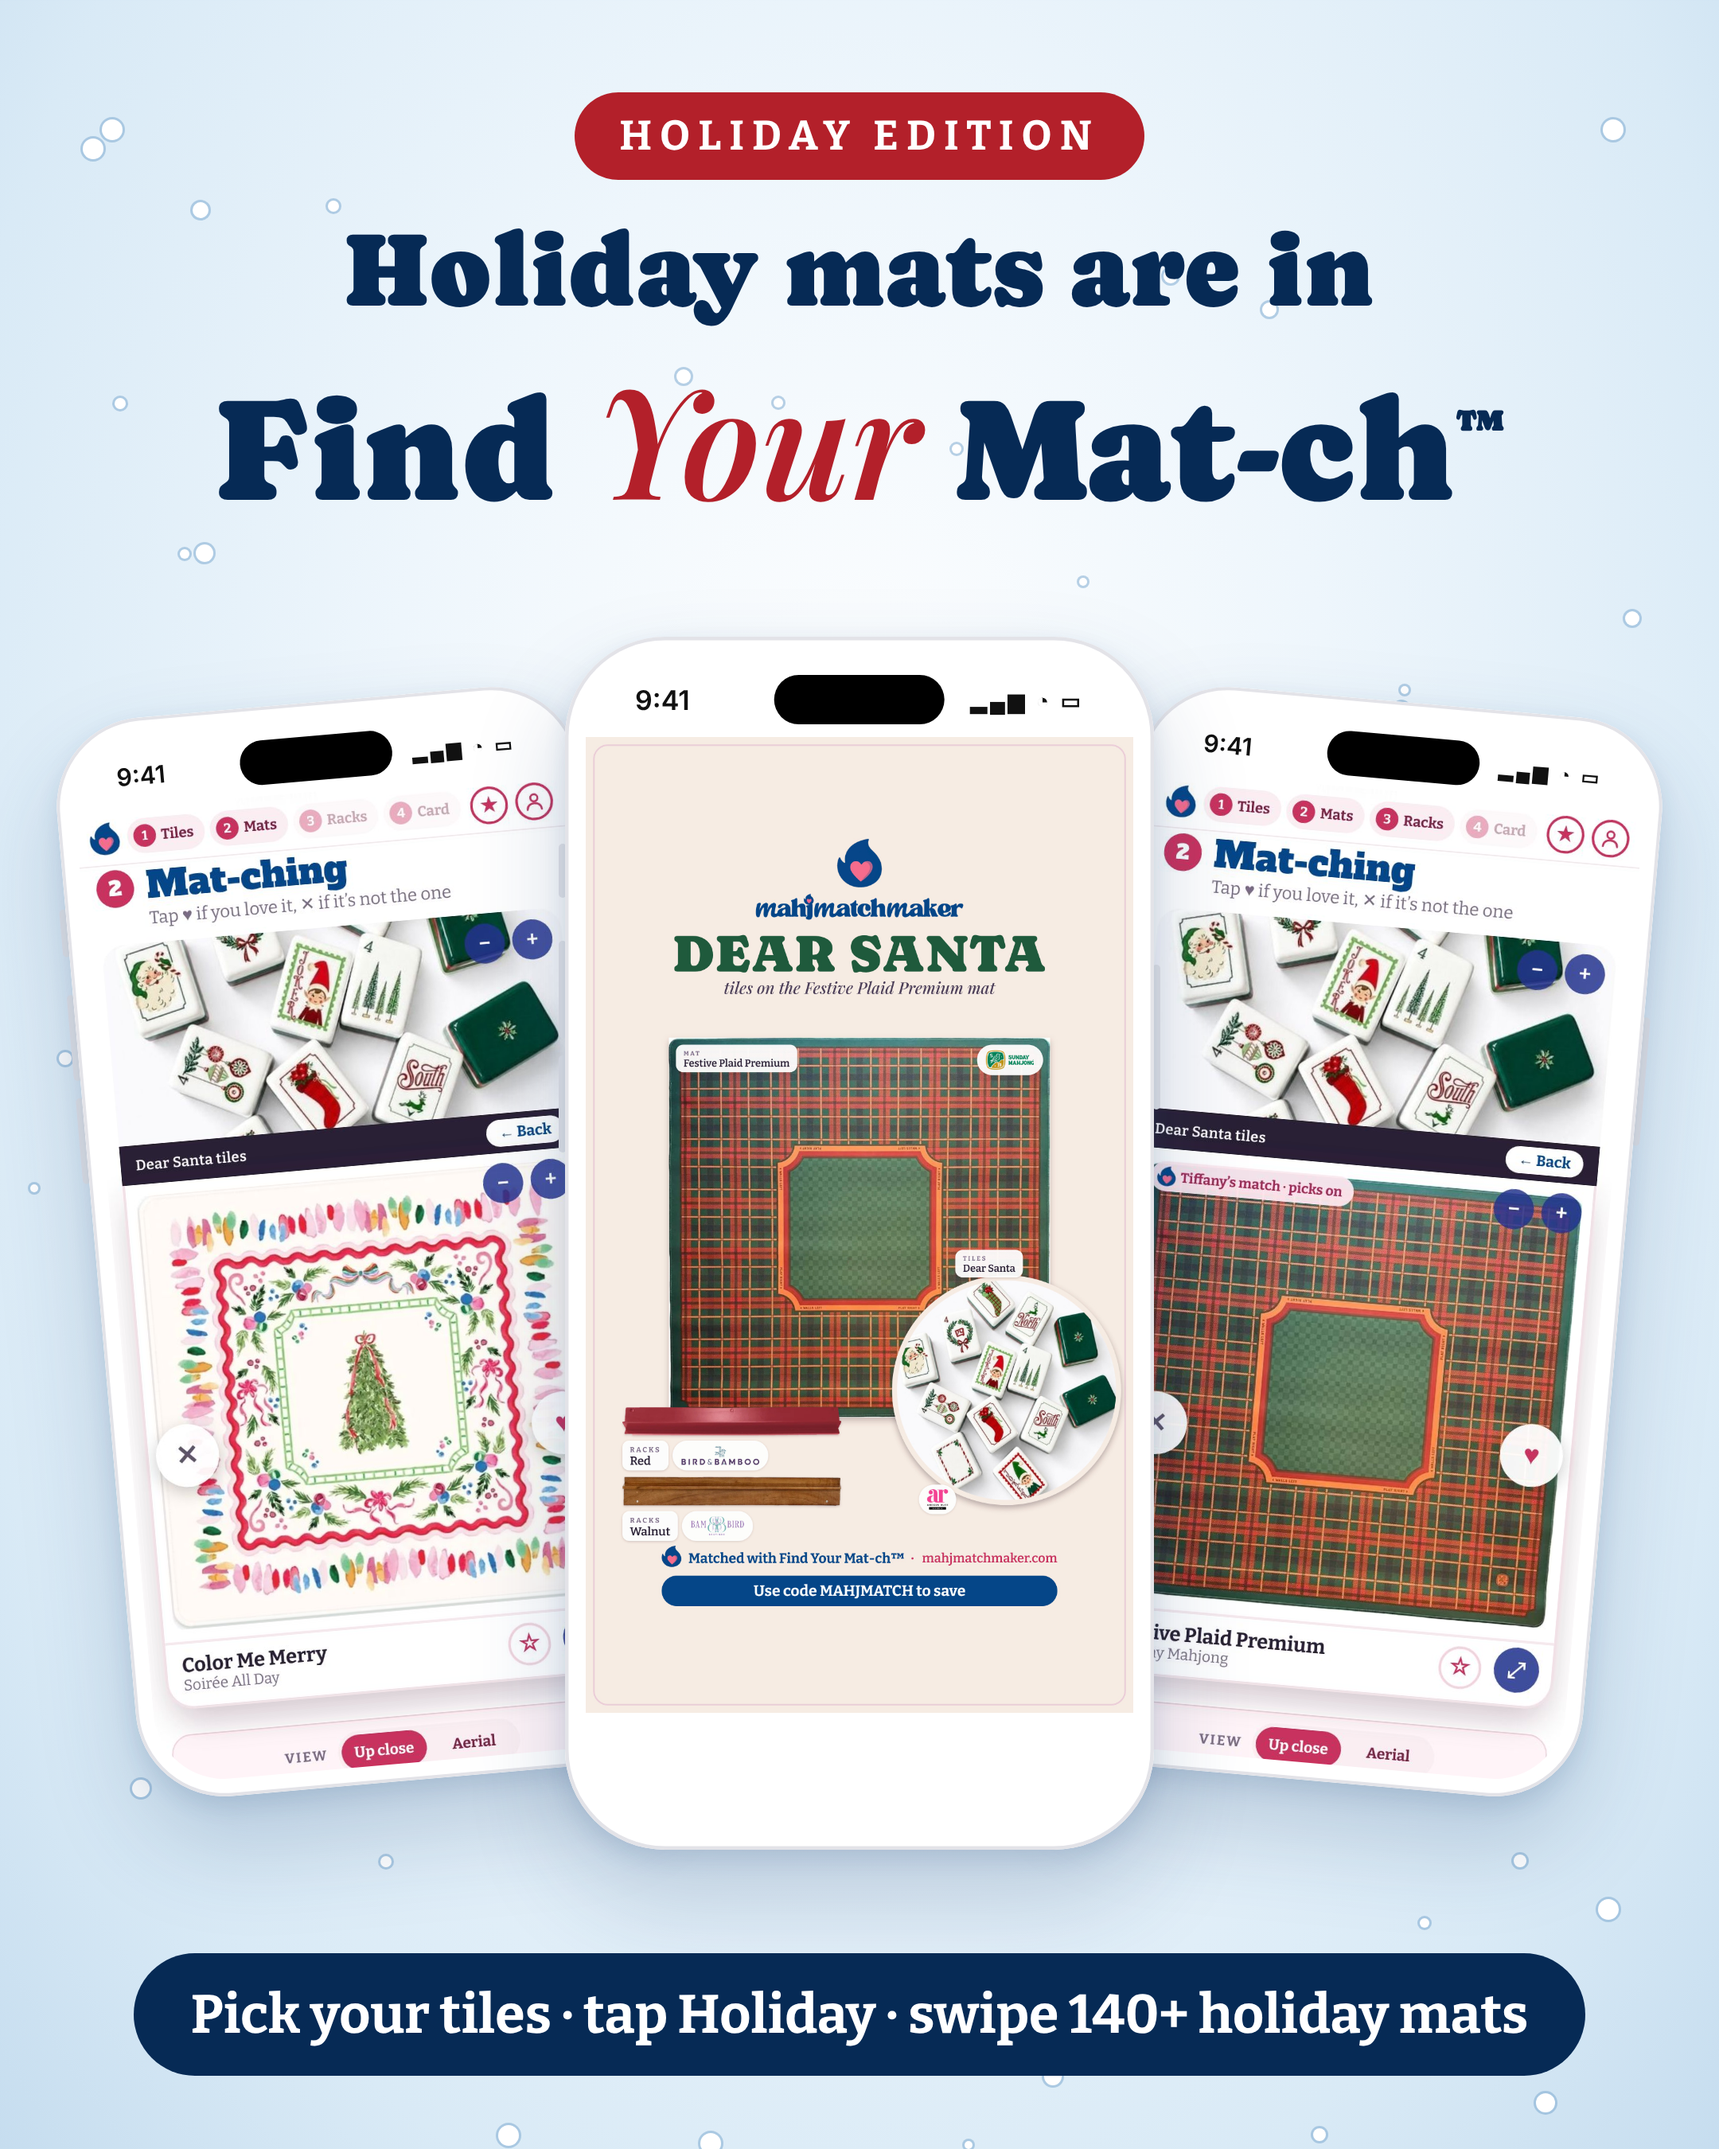
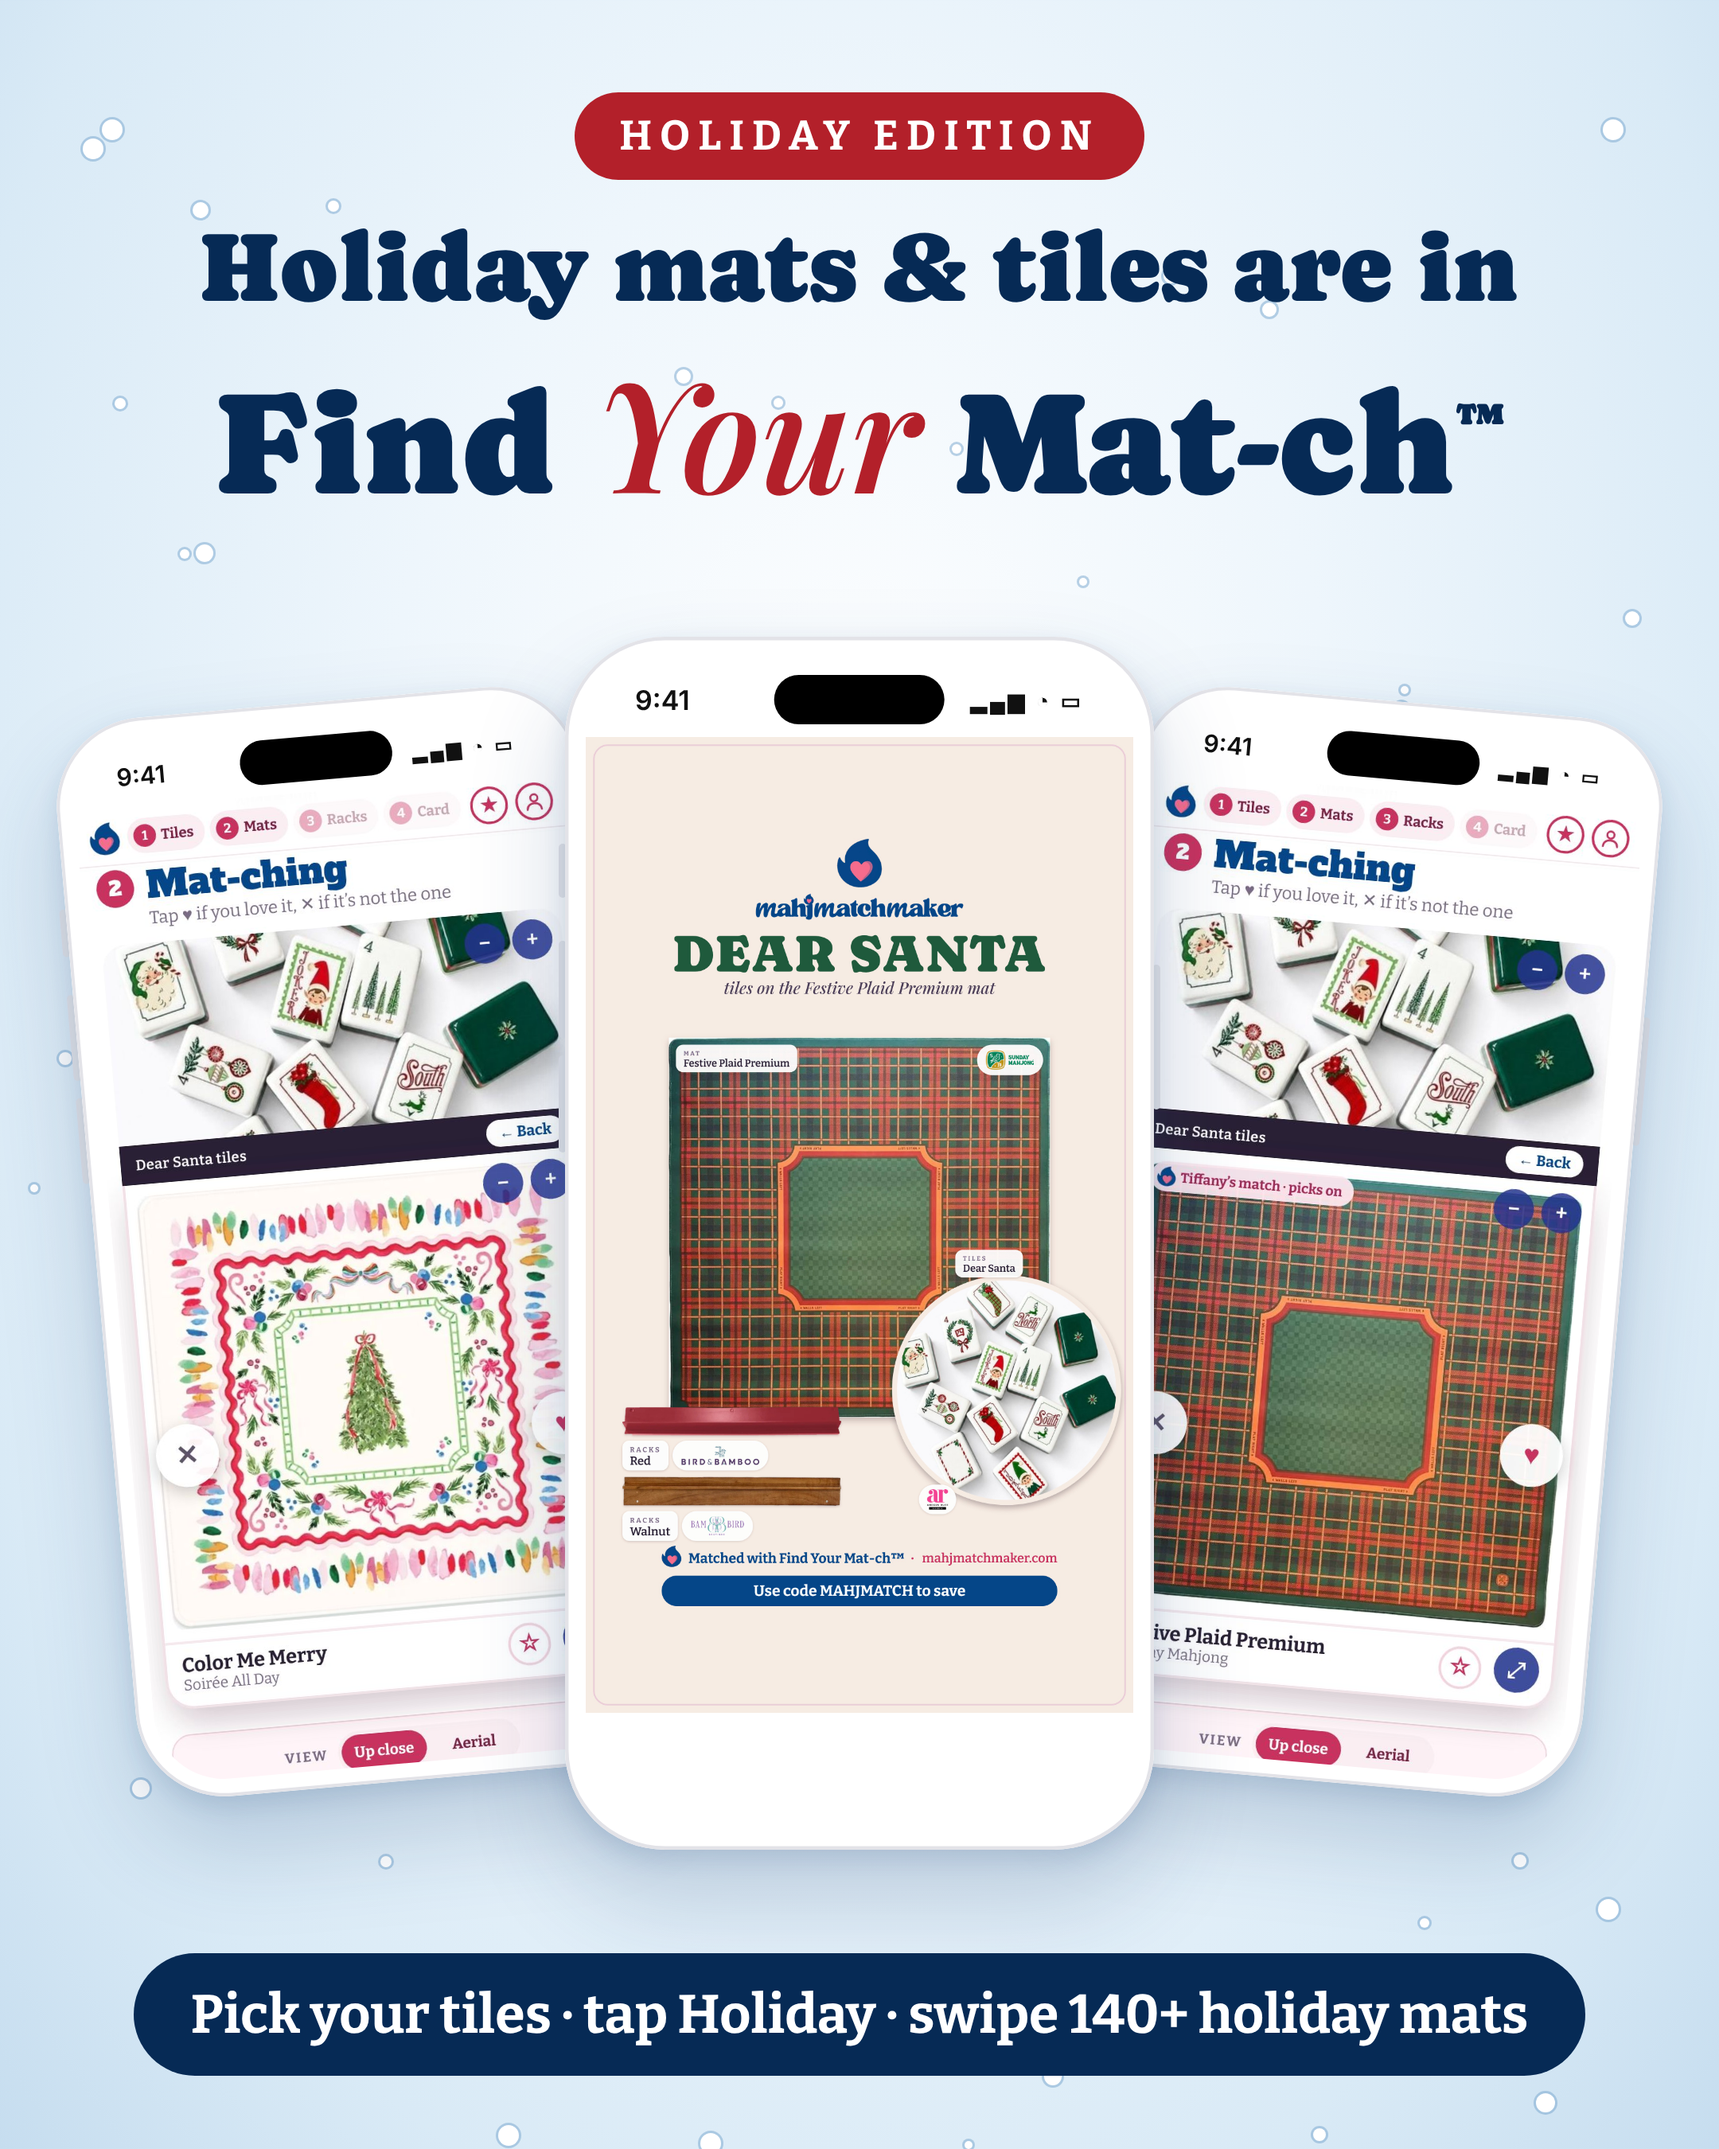
FYM holiday promo: mats & tiles
Claude-Session: https://claude.ai/code/session_01QxwYQtmWcAr4s5uYJYP3mA

diff --git a/docs/social/fym-holiday-group/make_promo.py b/docs/social/fym-holiday-group/make_promo.py
@@ -18,7 +18,7 @@ import random; random.seed(4)
 snow=''.join(f'<i style="position:absolute;left:{random.randint(0,1080)}px;top:{random.randint(0,1350)}px;width:{s}px;height:{s}px;border-radius:50%;background:#fff;box-shadow:0 0 0 1.5px rgba(120,165,205,.5)"></i>' for s in [random.randint(5,13) for _ in range(70)])
 head='''<div style="position:absolute;left:0;right:0;top:58px;text-align:center;z-index:5">
 <div style="display:inline-block;background:#b3202a;color:#fff;font:700 26px Bit;letter-spacing:5px;padding:12px 28px;border-radius:40px">HOLIDAY EDITION</div>
-<div style="font:400 66px/1.05 Cap;color:#062a55;margin-top:22px">Holiday mats are in</div>
+<div style="font:400 62px/1.05 Cap;color:#062a55;margin-top:22px">Holiday mats &amp; tiles are in</div>
 <div style="font:400 92px/1.05 Cap;color:#062a55;margin-top:6px">Find <span style="font:italic 600 96px PF;color:#b3202a">Your</span> Mat-ch<sup style="font-size:34px">™</sup></div></div>
 <div style="position:absolute;left:0;right:0;bottom:46px;text-align:center;z-index:5"><span style="display:inline-block;background:#062a55;color:#fff;font:700 34px Bit;padding:18px 36px;border-radius:50px">Pick your tiles · tap Holiday · swipe 140+ holiday mats</span></div>'''
 ph=phone('cmm.jpg',330,60,440,-5,1)+phone('fp.jpg',330,690,440,5,1)+phone('card.png',370,355,400,0,3)

diff --git a/docs/ANSWERS.md b/docs/ANSWERS.md
@@ -923,4 +923,4 @@ Tiffany: tabletop room images look AI, don't want them. Use the clean flat/aeria
 - 2026-11-03 2:11-2:12pm Tiffany (Main): the mat she remembered = The Very Merry Wreath (Mahjong Register): use AMARA on it in the reel's cross-brand card wall (not an obvious OMM pick). Last reel note; get it done ASAP. 2:12pm: social is way over its 2 hours/week; reel framing ('you don't have my vision yet') is what costs time; holiday slipped to today because she couldn't give this level of feedback Sun/Mon and didn't want to slap something up. Captured her reel vision as FYM-REEL-RULES 23-36 (checked before every reel).
 - 2026-11-03 2:14pm Tiffany (Main): holiday albums group post = EACH album cover as its own photo (11; 'each one deserves its own moment'), then the tiles-you-already-own screenshot, the two plaid cards (Sierra x Festive Plaid, Drake x Tartan Tidings), and Amara x Very Merry Wreath. No Color Me Merry card (its cards aren't done yet). Set in docs/social/holiday-albums-group/ 01-15.
 - 2026-11-03 2:15pm Tiffany (Main): the holiday albums post should also carry a Find Your Mat-ch holiday promo screenshot/graphic, AND that should be its OWN group post too ('I feel like I have to tell you every way of how to market something'). Built: promo graphic (white phones: Color Me Merry swipe, Dear Santa match card, Festive Plaid swipe; 'Holiday mats are in Find Your Mat-ch'), added as photo 16 of the albums post + its own post docs/social/fym-holiday-group/. STANDING: every launch/announcement gets its full marketing set by default without being asked: (1) the main post, (2) a Find Your Mat-ch tie-in (app screenshot/promo graphic + its own post), (3) story frames, (4) email to subscribers, (5) site/links updates.
-- 2026-11-03 2:22pm (Matches & Catalog): Tiffany finished accounts email setup: Resend domain verified, Resend API key (she keeps it), Supabase custom SMTP on (smtp.resend.com:465, sender hello@mahjmatchmaker.com / Mahj Matchmaker), code line {{ .Token }} added to Magic Link + Confirm signup. Last step: real sign-in test (she signs in herself; Claude doesn't create accounts).
+- 2026-11-03 2:28pm Tiffany (Main): holiday MATS AND TILES are in Find Your Mat-ch, say both. Fixed the FYM holiday promo graphic headline ('Holiday mats & tiles are in Find Your Mat-ch') + group post headline/step 1.
